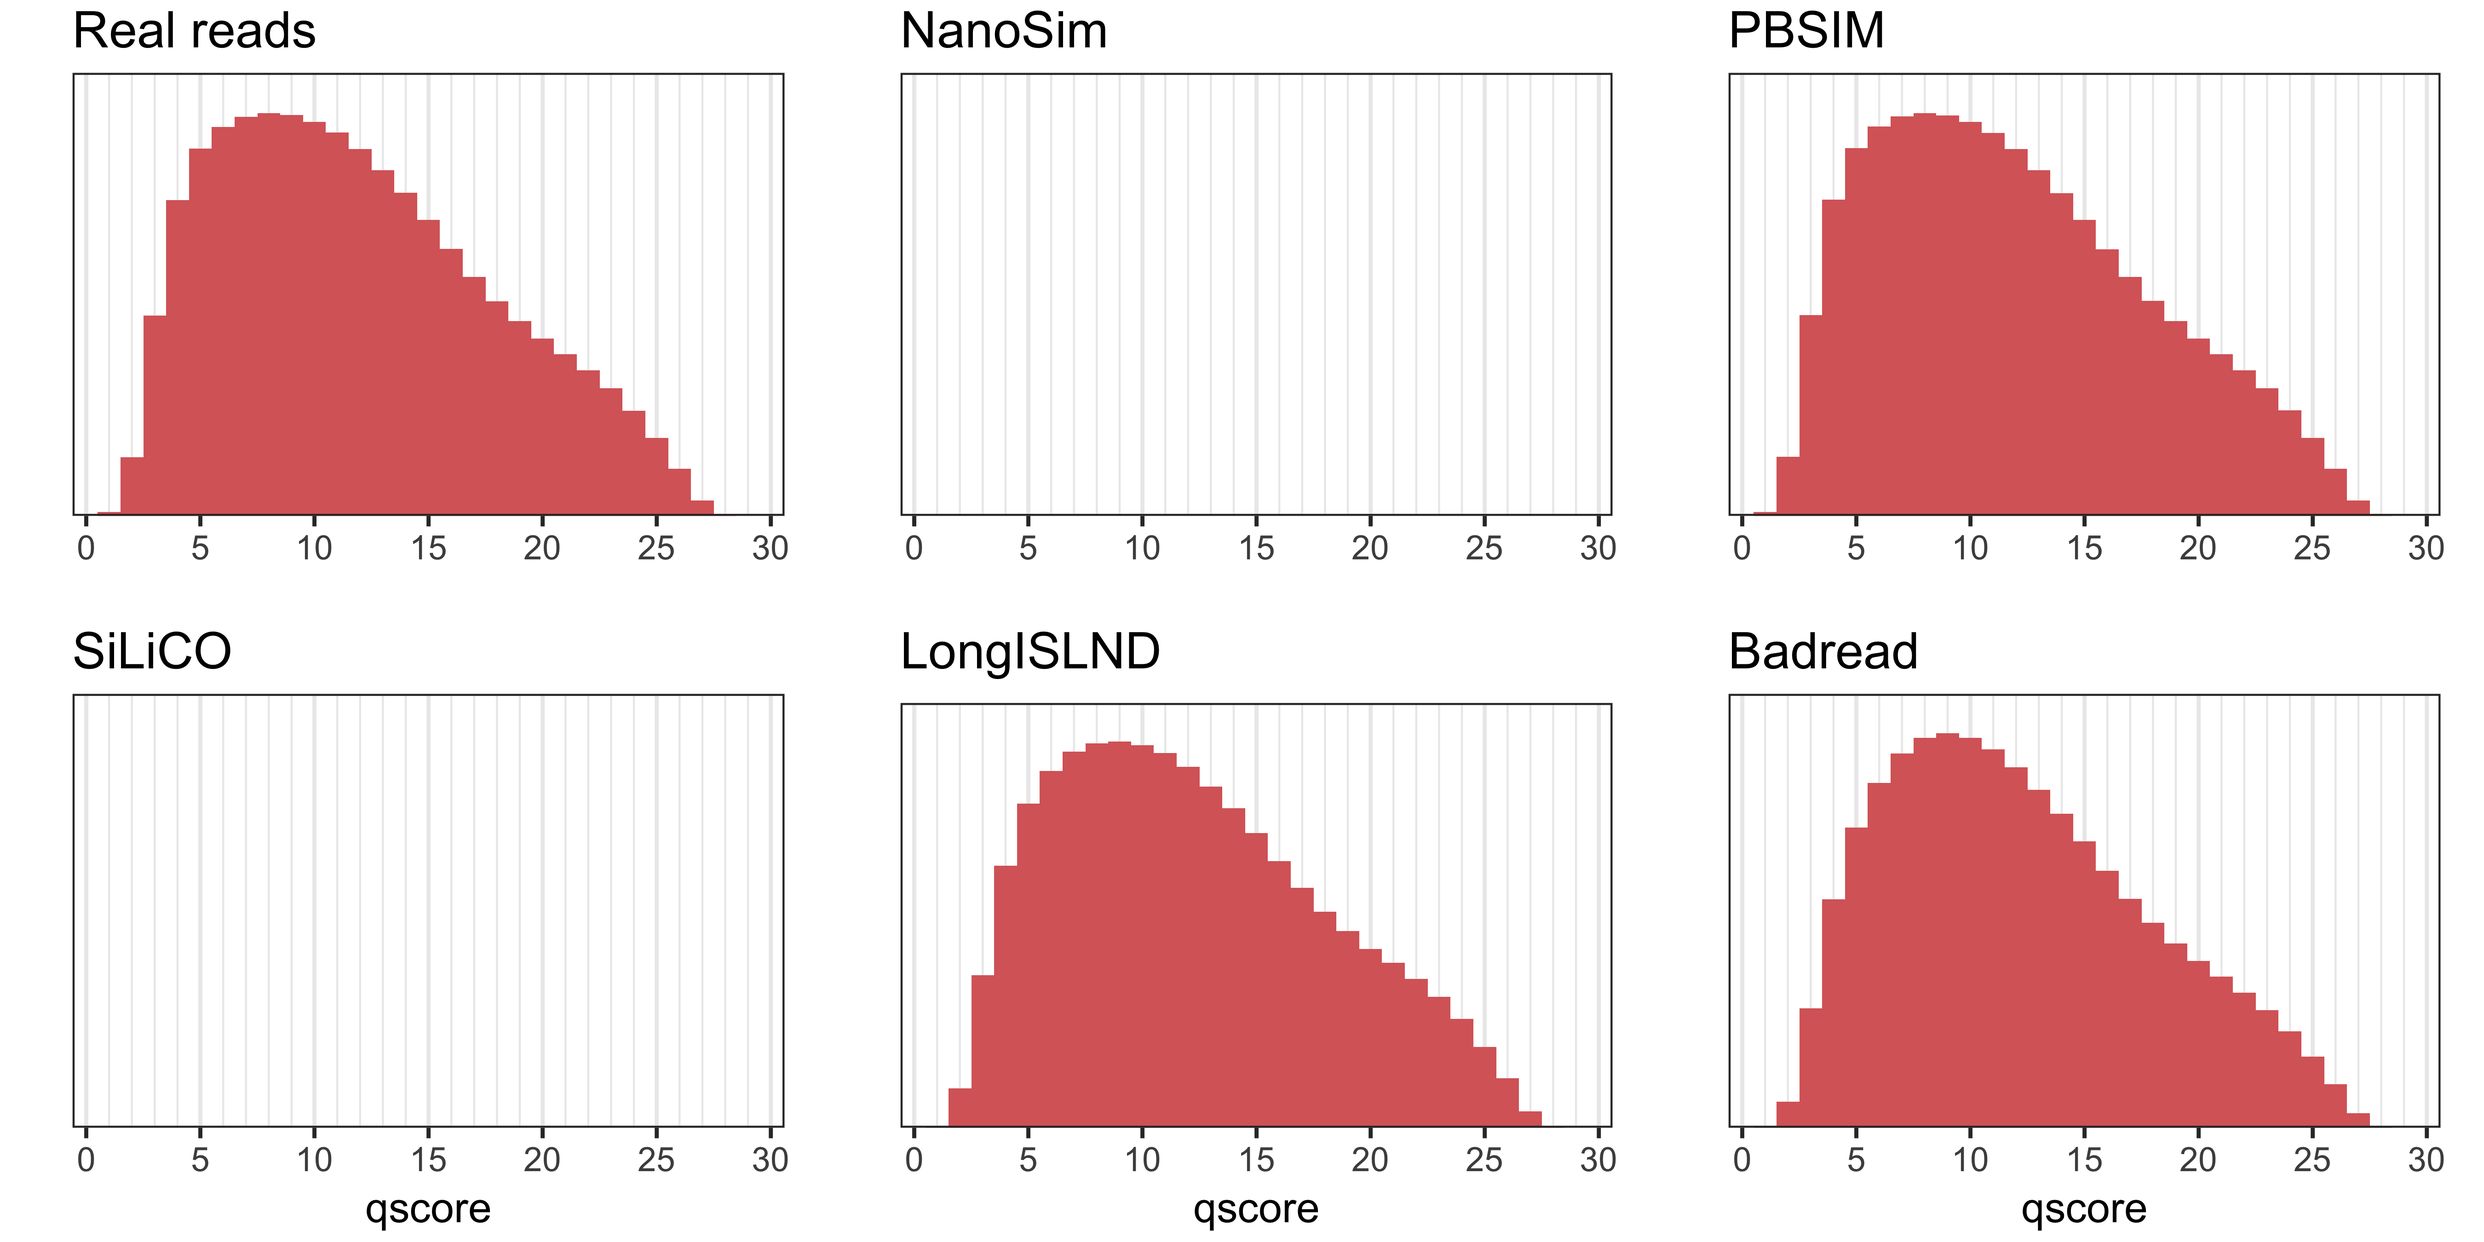
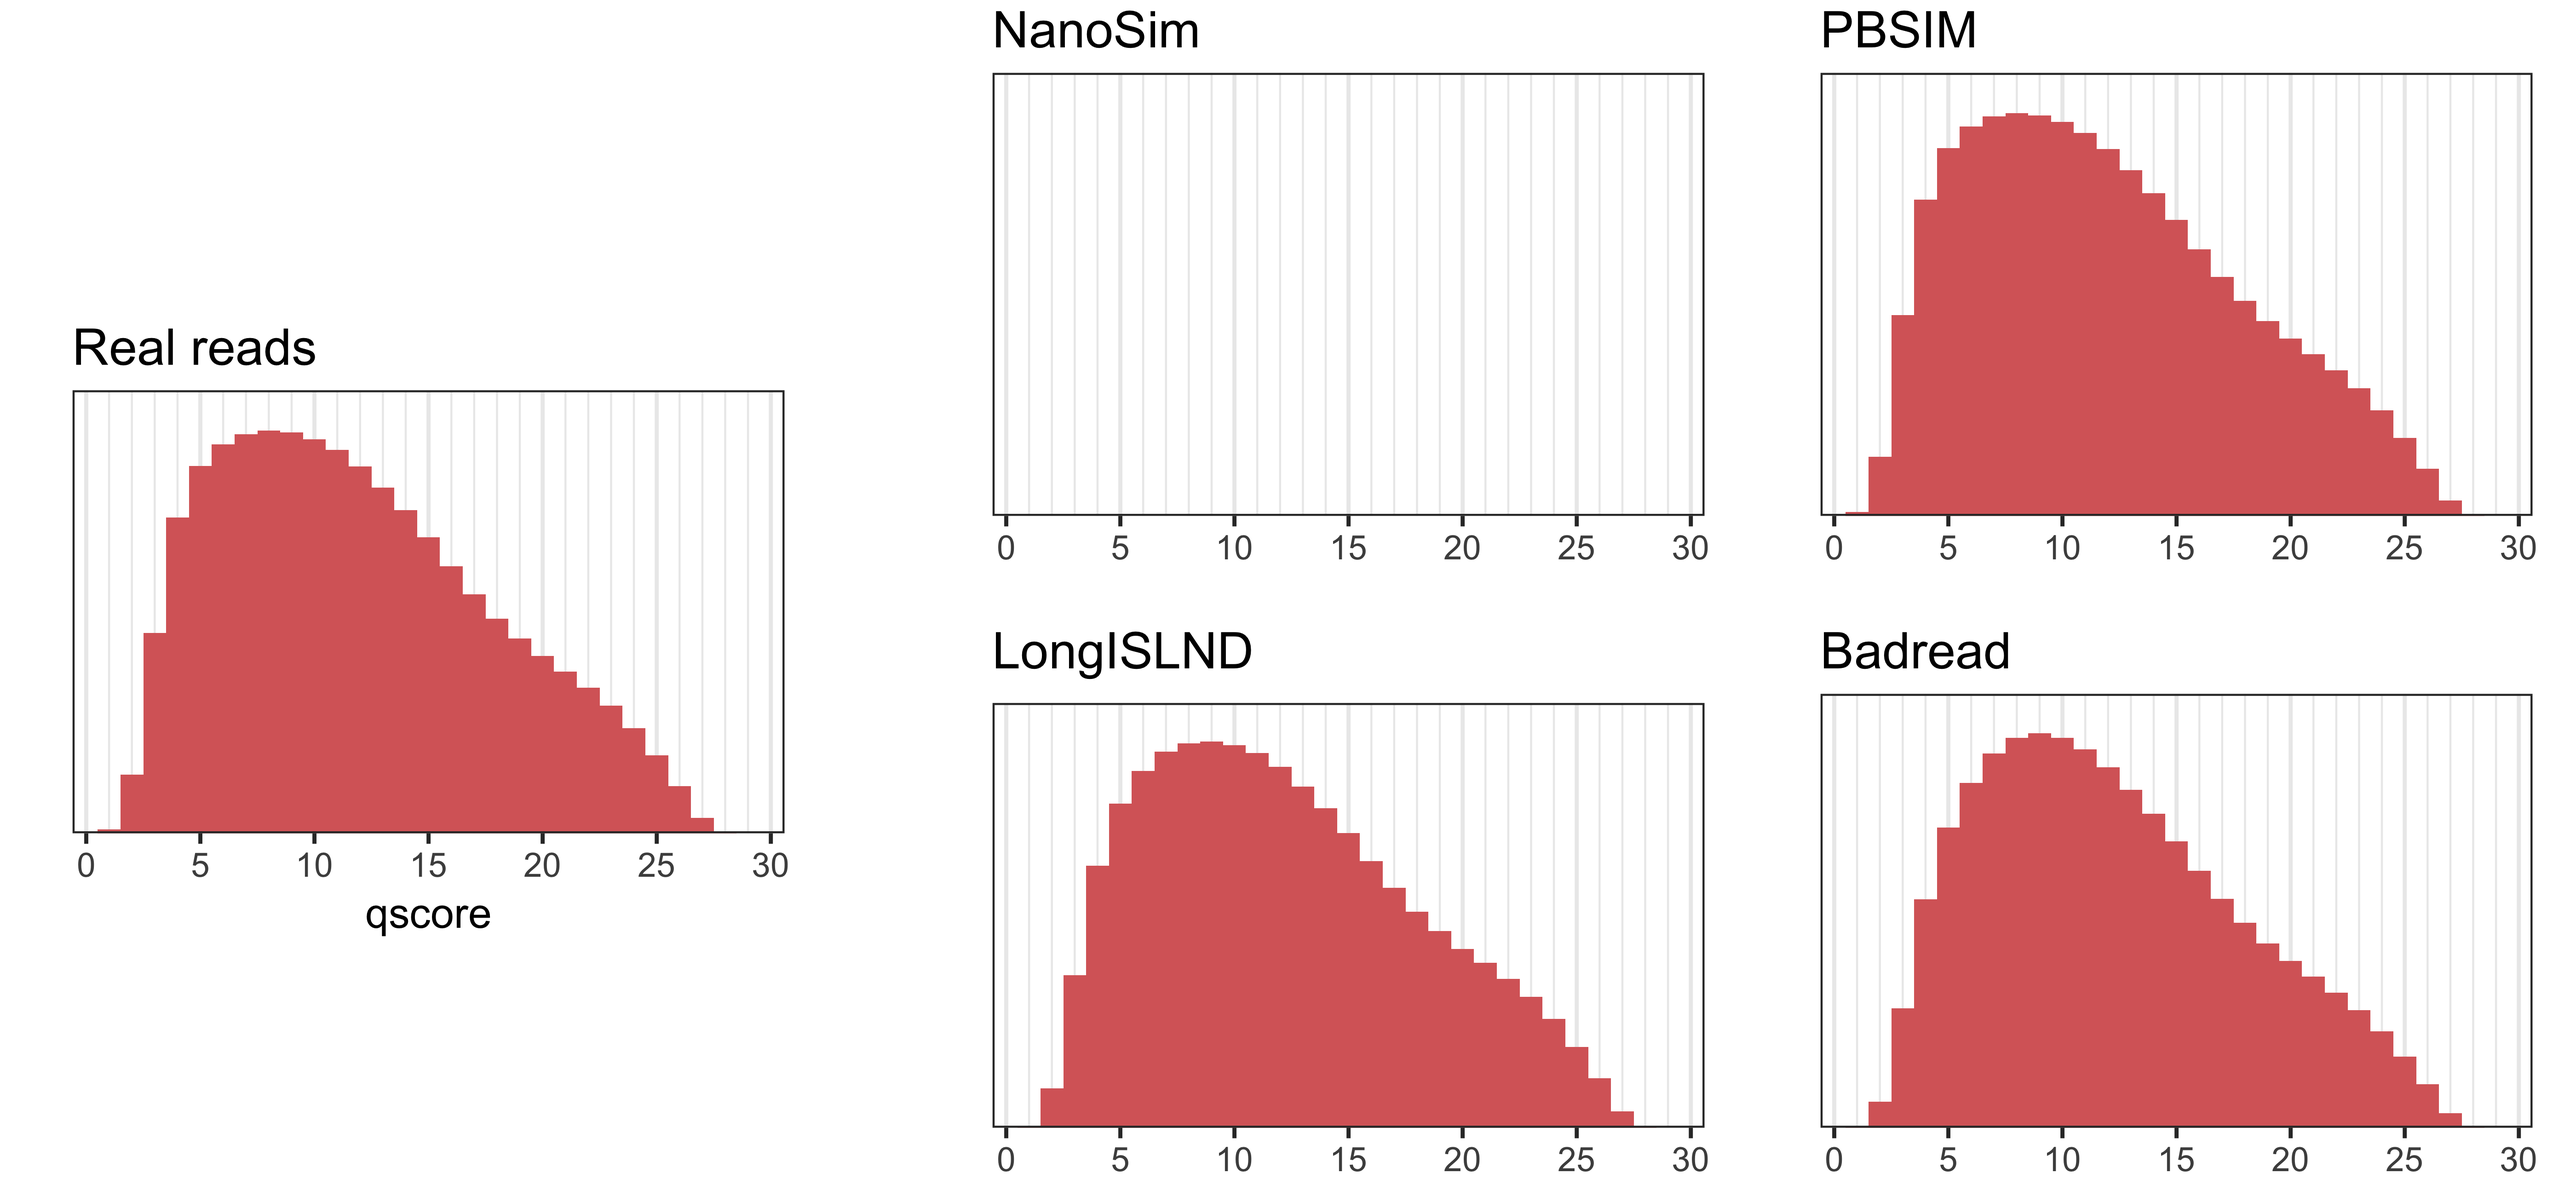
Remove SiLiCO from comparison

diff --git a/comparison/README.md b/comparison/README.md
@@ -18,23 +18,22 @@
 
 ## Simulators tested
 
-This comparison includes the following five long-read simulators:
+This comparison includes the following four long-read simulators:
 * [Badread](https://github.com/rrwick/Badread) v0.1.0
 * [NanoSim](https://github.com/bcgsc/nanosim) v2.1.0
 * [PBSIM](https://github.com/pfaucon/PBSIM-PacBio-Simulator) v1.0.3
-* [SiLiCO](https://github.com/ethanagbaker/SiLiCO) v1.0.1
 * [LongISLND](https://github.com/bioinform/longislnd) v0.9.5
 
-I was also interested in [loresim2](https://github.com/gt1/loresim2), but couldn't get it to compile.
+I was also interested in [loresim2](https://github.com/gt1/loresim2) but couldn't get it to compile, and I excluded [SiLiCO](https://github.com/ethanagbaker/SiLiCO) because (at least in my tests) it only produced reads of 100% identity.
 
 
 
 
 ## Real read set
 
-I used a Nanopore MinION run on [this sample](https://www.ncbi.nlm.nih.gov/biosample/SAMEA3356997) as my real read set to compare against. It's a _Klebsiella pneumoniae_ genome about 5.5 Mbp in size. There are 115,042 reads which have a total size of 1.1 Gbp (200x depth) and an N50 read length of 21.1 kbp. The completed genome (a hybrid Illumina+Nanopore assembly) is `ref.fasta` in the commands below.
+I used a Nanopore MinION run on [this sample](https://www.ncbi.nlm.nih.gov/biosample/SAMEA3356997) as my real read set to compare against. It's a _Klebsiella pneumoniae_ genome about 5.5 Mbp in size. There are 115,042 reads which have a total size of 1.1 Gbp (200x depth) and an N50 read length of 21.1 kbp. The completed genome (a hybrid Illumina + Nanopore assembly) is `ref.fasta` in the commands below.
 
-This is a slightly older sample from early 2017, so I redid the basecalling with a more recent version of Albacore (v2.3.1). I chose this sample because it was not part of a barcoded run – only the one genome was sequenced in its run. This means we should see the full spectrum of read quality, unlike for a barcoded sample where the demultiplexing process removes many of the lower quality reads.
+This is a slightly older sample from early 2017, so I redid the basecalling with a more recent version of Albacore (v2.3.1). I chose this sample because it was not part of a barcoded run – only the one genome was sequenced in its run. This means it should contain the full spectrum of read quality, unlike for a barcoded sample where the demultiplexing process removes many of the lower quality reads.
 
 
 
@@ -65,7 +64,7 @@ samtools faidx ref.fasta
 sample.py --input_suffix fastq.bam --read_type fastq --model_dir longislnd_model --reference ref.fasta
 ```
 
-PBSIM is also uses a real read set, but in the simulation command (see below) not in a separate training step.
+PBSIM also uses a real read set, but in the simulation command (see below).
 
 
 
@@ -98,15 +97,6 @@ gzip -c sd_0001.fastq > pbsim_reads.fastq.gz
 rm real_reads.fastq sd_0001.ref sd_0001.maf sd_0001.fastq
 ```
 
-#### SiLiCO
-```
-echo ">chr1" > silico_ref.fasta
-tail -n 1 ref_chromosome.fasta >> silico_ref.fasta
-SiLiCO.py -i silico_ref.fasta -o silico_out -c 100 --nanopore --fasta
-gzip -c silico_out/simulated_read_positions_trial_1.fa > silico_reads.fasta.gz
-rm -r silico_out silico_ref.fasta
-```
-
 #### LongISLND
 ```
 simulate.py --movie_id ONT --read_type fastq --model_dir longislnd_model --fasta ref_chromosome.fasta --coverage 100
@@ -119,16 +109,16 @@ rm -r out
 
 ## Results
 
-I've analysed the read sets to qualitatively compare them against each other and against the real read set (in the top left of each plot). For each analysis, a good simulated read set is one that closely mimics the nature of the real read set.
+I've analysed the read sets to qualitatively compare them against each other and against the real read set (in the top left of each plot). For each analysis, a good result is one that closely mimics the nature of the real read set.
 
 
 ### Read lengths
 
 <p align="center"><img src="images/read_lengths.png" alt="Read lengths" width="85%"></p>
 
-These plots show the distribution of read lengths in histogram form. The values are weighted by the read length, so this is actually a distribution of bases in reads (e.g. a 40 kbp read contributes 10x as much as a 4 kbp read). I find this to be more useful than the simpler distribution of read counts, as longer reads really are more sequencing than short reads. The read N50 is the median of these distributions.
+These plots show the distribution of read lengths in histogram form. The values are weighted by the read length, so these are actually distributions of _bases_ in reads (e.g. a 40 kbp read contributes 10x as much as a 4 kbp read), which I find to be more useful than simple distributions of read counts. The read N50 is the median of these distributions.
 
-NanoSim, PBSIM and LongISLND all sample from the real read length distribution, so their read lengths match the real reads very well. Badread generates its read lengths from a gamma distribution, so it's not quite as realistic. SiLiCO's reads are all close to 10 kbp in size.
+NanoSim, PBSIM and LongISLND all sample from the real read length distribution, so their distributions matched the real reads very well. Badread generates its read lengths from a gamma distribution, so it was not as realistic.
 
 
 
@@ -136,25 +126,25 @@ NanoSim, PBSIM and LongISLND all sample from the real read length distribution, 
 
 <p align="center"><img src="images/read_identities.png" alt="Read identities" width="85%"></p>
 
-Read identity was determined by aligning each read back to the reference genome from which it was made. Both NanoSim and LongISLND produce narrow identity distributions – i.e. all reads are similarly accurate. PBSIM's distribution is wider but still lacks many reads below about 75% identity. Only Badread covers the entire identity spectrum, with plenty of reads down to 70% identity and below. It's mean identity is actually worse than the real read set, but after all it is called <em>Bad</em>read. SiLiCO does not add any errors to its reads, which seriously limits its usefulness as a long-read simulator.
+Read identity was determined by aligning each read back to the reference genome from which it was made. Both NanoSim and LongISLND produced narrow identity distributions – i.e. all reads were similarly accurate. PBSIM's distribution was wider but still lacked many reads below about 75% identity. Only Badread covered the entire identity spectrum, with plenty of reads down to 70% identity and below. Its mean identity was actually worse than the real read set, but after all it is called <em>Bad</em>read.
 
 
 
 ### Identities across reads
 
-These plots may take a bit more explaining, so here are two examples:
+These plots may take a bit more explaining, so here are two examples showing read identity over a 250 bp sliding window across 10 kbp regions of a read:
 
 <p align="center"><img src="images/window_identities_examples.png" alt="Identities across reads" width="55%"></p>
 
-These show the read identity over a 250 bp sliding window across 10 kbp regions of a read. Both of the above examples have an overall identity of 87.5%, but the read on the left is more even – every one of its 250 bp windows stays within 80–92.5%. The read on the right is more variable with higher highs and lower lows.
+Both of the above examples have an overall identity of 87.5%, but the read on the left is more even – every one of its 250 bp windows stays within 80–92.5%. The read on the right is more variable with higher highs and lower lows.
 
-With those examples in mind, here are plots showing 10 reads from each set. Again, these reads all have an average identity of 87.5% (I chose that value because all simulators, excluding SiLiCO, produced reads in that range):
+With those examples in mind, here are plots showing 10 reads from each set. Again, these reads all have an average identity of 87.5% (I chose that value because all simulators produced reads in that range):
 
 <p align="center"><img src="images/window_identities.png" alt="Identities across reads" width="85%"></p>
 
-The real reads have a moderate amount of variance from their mean identity. NanoSim looks pretty good here, largely matching the pattern of the real reads. Both PBSIM and LongISLND make reads that are a bit too even.
+The real reads had a moderate amount of variance from their mean identity. NanoSim looked pretty good here, largely matching the pattern of the real reads. Both PBSIM and LongISLND made reads that were a bit too even.
 
-The real reads contain a few 'glitches', junk regions which case the window identity drastically fall. Badread is the only simulator which also includes glitches. It actually includes far more glitches than the real reads, but again, that's why it's called <em>Bad</em>read.
+The real reads contained some 'glitches' – junky regions in which the window identity drastically dropped. Badread was the only simulator which also included glitches. It actually included _more_ glitches than the real reads, but again, that's why it's called <em>Bad</em>read.
 
 
 
@@ -162,7 +152,7 @@ The real reads contain a few 'glitches', junk regions which case the window iden
 
 <p align="center"><img src="images/qscores.png" alt="QScores" width="85%"></p>
 
-NanoSim and SiLiCO output reads in FASTA format (which lack qscores) and so are excluded from this plot and the following plot. The other simulators all model their qscores using the real reads, and each achieves a very realistic looking distribution.
+NanoSim outputs reads in FASTA format (which lack qscores) and so was excluded from this plot and the following plot. The other simulators all model their qscores using real reads, and each achieved a very realistic looking distribution.
 
 
 
@@ -170,9 +160,9 @@ NanoSim and SiLiCO output reads in FASTA format (which lack qscores) and so are 
 
 <p align="center"><img src="images/qscore_identity.png" alt="Identity vs mean qscore" width="85%"></p>
 
-Each point in these plots represents one read. Mean qscore should be positively correlated with read identity, i.e. qscores are informative about how good a read actually is. While this is true for the real reads, they seem to have a bimodal distribution with some reads appearing higher on the plot (more accurate than their qscore suggests) – I'm not sure what caused this behaviour.
+Each point in these plots represents one read. Mean qscore should be positively correlated with read identity, i.e. qscores are informative about the quality of the read. While this was true for the real reads, they had a bimodal distribution with some reads appearing higher on the plot (more accurate than their qscore suggested) – I'm not sure what caused this behaviour.
 
-PBSIM and Badread do best here, but neither quite matches the real read set. PBSIM's mean qscores tend to be too low, while Badread's mean qscore don't span the full range. Both PBSIM and Badread have unrealistically tight correlations. LongISLND's narrow identity distribution makes it difficult to assess, but the correlation looks weak.
+PBSIM and Badread did best here, but neither quite matched the real read set. PBSIM's mean qscores tended to be too low, while Badread's mean qscores didn't span the full range. Both PBSIM and Badread had unrealistically tight correlations. LongISLND's narrow identity distribution made it difficult to assess, but the correlation looked weak.
 
 
 
@@ -180,14 +170,14 @@ PBSIM and Badread do best here, but neither quite matches the real read set. PBS
 
 <p align="center"><img src="images/consensus_accuracy.png" alt="Consensus accuracy" width="85%"></p>
 
-These plots show the assembly accuracy (specifically, a [Rebaler](https://github.com/rrwick/Rebaler) assembly which uses Racon to polish) as a function of read depth. Note that the real reads never achieve a particular high accuracy due to systematic basecalling errors (mainly getting homopolymer lengths wrong and botching locations with modified bases).
+These plots show the assembly accuracy (specifically, a [Rebaler](https://github.com/rrwick/Rebaler) assembly which uses [Racon](https://github.com/isovic/racon) to polish) as a function of read depth. Note that the real read assembly never achieved a particularly high accuracy due to systematic basecalling errors (mainly getting homopolymer lengths wrong and botching locations with modified bases).
 
-Read simulators which approach 100% assembly accuracy (NanoSim and PBSIM) are not modelling these systematic errors very well. LongISLND's assemblies have the lowest accuracy of the simulated reads, suggesting that it is modelling the read errors. Badread is middle-of-the-pack in this analysis, approaching 100% accuracy but at a higher depth.
+NanoSim and PBSIM approached 100% assembly accuracy, showing that they did not model these systematic errors very well. LongISLND's assemblies had the lowest accuracy of the simulated reads, suggesting that it did a better job of modelling the read errors. Badread was middle-of-the-pack in this regard, approaching 100% accuracy but at a higher depth.
 
 
 
 ## Conclusions
 
-None of the simulators excel in every category – i.e. each produces reads which could be distinguished from real reads. That being said, PBSIM is a very good all-rounder, despite being the oldest tool tested (developed way back in 2012), and was also very fast to run. NanoSim is best at varying identity across the length of a read. LongISLND seems to be best at modelling systematic basecalling errors. Badread (true to its name) is best at modelling many read problems, like glitches and low identities.
+None of the simulators excelled in every category – i.e. each produced reads which could be distinguished from real reads. That being said, PBSIM was a very good all-rounder, despite being the oldest tool tested (developed in 2012), and it was also very fast to run. NanoSim was best at varying identity across the length of a read, and LongISLND seemed to be best at modelling systematic basecalling errors. Badread (true to its name) was best at modelling many read problems, like glitches and low identities.
 
-I didn't make Badread with the intention of simulating reads as realistically as possible. Rather, Badread strives to give users control over various long-read faults, so they can torture test tools which take long reads as input. That being said, a few tweaks to its parameters (like tightening up the read identity distribution) could make it pretty good at imitating real Nanopore reads.
+I didn't make Badread with the intention of simulating reads as realistically as possible. Rather, Badread strives to give users control over various long-read faults, so they can torture-test tools which take long reads as input. That being said, a few tweaks to its parameters (like tightening up the read identity distribution) could make it pretty good at imitating real Nanopore reads.
